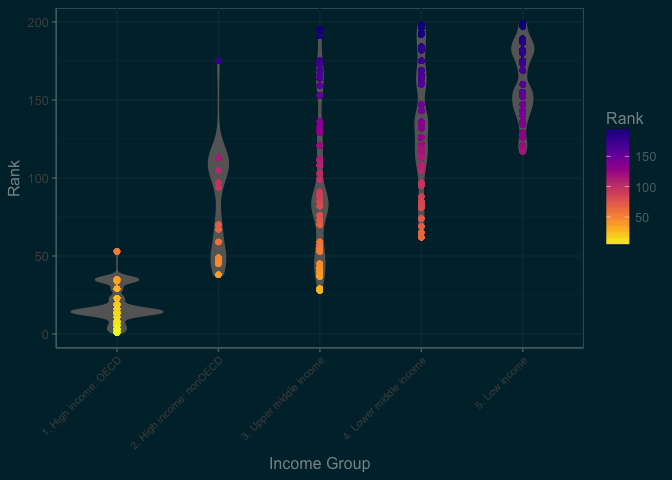
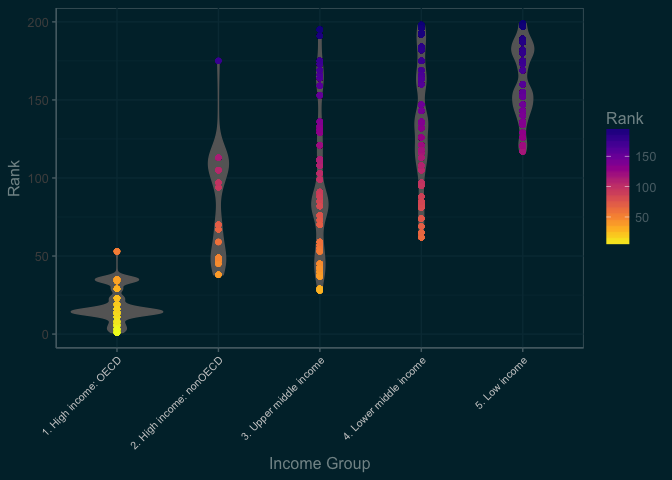
Correct bug in installation of `rnaturalearthdata` and make axis labels more clear

diff --git a/README.md b/README.md
@@ -38,7 +38,7 @@ NPI
 ```
 
     ##  [1] ""                                                                                                                                                                                                                                                                                                                                                                                                                                                                                                                                                                                                                                                                                                                                                                                                                                                                                                                                                                                                                                                                                                                                                                                                                                                                                                                                                                                                                                                                                                                                                                                                                                                                                                                                                                                                                                                                                                                                                                                                                                                                                                                                                                                                                                                                                                                                                          
-    ##  [2] "ABOUT THIS INDEX\nNomad Capitalist was founded by perpetual traveler, entrepreneur, and investor\nAndrew Henderson in 2012 to share his “notes from the field” about living, doing\nbusiness, and investing overseas. Since then, www.nomadcapitalist.com has\nbecome the most-visited website on the topic of international diversification,\nattracting more than three million unique visitors per year.\nNomad Capitalist assists six- and seven-figure entrepreneurs to legally reduce their\nbusiness and income taxes by relocating overseas, obtain residence permits and\ncitizenships in other countries for diversification, and invest in fast-growing\ninternational markets to grow their wealth faster.\nThe Nomad Passport Index was designed to educate global citizens about the true\nvalue of the world’s citizenships. While most indexes compare only a passport\nholder’s ability to travel freely, we realized that citizens of different countries deal\nwith far different requirements to pay tax, live freely, and avoid scrutiny when\ntraveling. This index is designed to show the true value of citizenship in each\ncountry from the perspective of a high-achieving citizen who wants the freedom to\nminimize his or her tax obligations, diversify his or her wealth, and travel freely\nwithout judgment.\nMETHODOLOGY\nThe Nomad Passport Index ranks the value of citizenship in and, by extension the\npassport of, 199 countries and territories in the world based on five factors:\n• Visa-free travel - 50% of ranking\n• Taxation - 20% of ranking\n• Perception - 10% of ranking\n• Dual citizenship - 10% of ranking\n• Overall freedom - 10% of ranking\nEach country’s value in each category is given the indicated weighting to achieve a\ncountry’s total score using the formula ((Visa Free Travel x 0.5) + (Taxation x 0.2)\n+ (Perception x 0.1) + (Dual Citizenship x 0.1) + (Overall Freedom x 0.1)).\n                             1 | www.nomadcapitalist.com\n"                                                                                                                                                                                                                                                                                                                               
+    ##  [2] "ABOUT THIS INDEX\nNomad Capitalist was founded by perpetual traveler, entrepreneur, and investor\nAndrew Henderson in 2012 to share his “notes from the field” about living, doing\nbusiness, and investing overseas. Since then, www.nomadcapitalist.com has\nbecome the most-visited website on the topic of international diversification,\nattracting more than three million unique visitors per year.\nNomad Capitalist assists six- and seven-figure entrepreneurs to legally reduce their\nbusiness and income taxes by relocating overseas, obtain residence permits and\ncitizenships in other countries for diversification, and invest in fast-growing\ninternational markets to grow their wealth faster.\nThe Nomad Passport Index was designed to educate global citizens about the true\nvalue of the world’s citizenships. While most indexes compare only a passport\nholder’s ability to travel freely, we realized that citizens of different countries deal\nwith far different requirements to pay tax, live freely, and avoid scrutiny when\ntraveling. This index is designed to show the true value of citizenship in each\ncountry from the perspective of a high-achieving citizen who wants the freedom to\nminimize his or her tax obligations, diversify his or her wealth, and travel freely\nwithout judgment.\nMETHODOLOGY\nThe Nomad Passport Index ranks the value of citizenship in and, by extension the\npassport of, 199 countries and territories in the world based on five factors:\n• Visa-free travel - 50% of ranking\n• Taxation - 30% of ranking\n• Perception - 10% of ranking\n• Dual citizenship - 10% of ranking\n• Overall freedom - 10% of ranking\nEach country’s value in each category is given the indicated weighting to achieve a\ncountry’s total score using the formula ((Visa Free Travel x 0.5) + (Taxation x 0.3)\n+ (Perception x 0.1) + (Dual Citizenship x 0.1) + (Overall Freedom x 0.1)).\n                             1 | www.nomadcapitalist.com\n"                                                                                                                                                                                                                                                                                                                               
     ##  [3] "The Index is the result of aggregating data from more than one dozen sources\nbased on priorities Nomad Capitalist believes to be important to citizens of a\ncountry and to individuals considering citizenship in a given country. For more\ninformation, watch this video.\nVISA-FREE TRAVEL\nThe most important factor in the value of a passport is the travel opportunities it\naffords. The Nomad Passport Index places the highest priority on visa-free travel,\nwhich is responsible for 50% of each country’s total ranking. This index relied on\ndata from the IATA, the Henley Visa Restrictions Index, and news sources to\ndetermine each country’s score, which is the number of countries that allow visa-\nfree access or a straightforward e-visa or visa on arrival process to holders of each\ncountry’s passport. For example, Germany scores highest with 177 countries.\nTAXATION\nThe second most important factor in the value of a passport is tax freedom, which\nis responsible for 30% of each country’s total ranking. We believe that no one\nshould be forced to pay tax by virtue of their citizenship alone. This index relied on\ndata from our personal experience with clients, our network of tax advisors around\nthe world, and each country’s tax agency or embassy, to determine how non-\nresident citizens are taxed. Each country was assigned a score from 10 to 50; for\nexample, the United States and Eritrea scored lowest with 10, while Monaco and\nothers scored highest with 50:\n• 10 = citizens are taxed on their worldwide income no matter where they lived\n• 20 = citizens may avoid taxation by moving overseas, but with difficulty\n• 30 = citizens may avoid taxation by moving overseas, without much difficulty\n• 40 = citizens are not taxed on foreign source income no matter where they live\n• 50 = citizens are not taxed on any income no matter where they live\nPERCEPTION\nThe world’s perception of a country and its citizens are responsible for 10% of\neach country’s total ranking. Each country’s passport is as valuable as it is able to\nbe used freely and keep its holders safe. This index relied on the World Happiness\nReport, the Human Development Index, and subjective factors based on our\n                            2 | www.nomadcapitalist.com\n"
     ##  [4] "personal experience with clients to determine how each country and its citizens are\nreceived. Each country was assigned a score from 10 to 50. A ranking if 10 was\ngiven to countries whose citizens are refused entry to a substantial number of\ncountries and/or whose citizens encounter substantial hostility. A ranking of 50 was\ngiven to countries ranked among the happiest in the world and whose citizens\nexperience minimal hostility. Rankings of 20, 30, and 40 were given as\nintermediate rankings.\nDUAL CITIZENSHIP\nThe ability to maintain other citizenships alongside that of the ranked country is\nresponsible for 10% of each country’s total ranking. We believe that everyone\nshould be free to hold dual or multiple citizenships without restriction. This index\nrelied on data from each country’s embassy when available, various internet\nsources when not available, and our personal experiences with our global network,\nto determine how free citizens of each country are to hold other nationalities. Each\ncountry was assigned a score from 10 to 50:\n• 10 = citizens are strictly forbidden to hold other citizenships\n• 20 = citizens are forbidden to hold other citizenships, but this is often unenforced\n• 30 = citizens may hold only one other citizenship and/or other restrictions\n• 40 = citizens are often allowed to hold other citizenships\n• 50 = citizens are almost always allowed to hold other citizenships\nFREEDOM\nThe ability of citizens to live freely is responsible for 10% of each country’s total\nranking. We believe that freedom of speech and of the press is a good thing, and\nimposing laws on non-resident citizens is generally a bad idea. This index relied on\ndata regarding mandatory military service, government spying programs,\nincarceration rate, and laws targeting non-resident citizens (such as the United\nStates’ Foreign Corrupt Practices Act), as well as the World Press Freedom Index\nand Economic Freedom Index to determine how free citizens of each country are,\nparticularly non-resident citizens. Each country was assigned a score from 10 to 50\nbased on our proprietary blend of these factors, with 10 being the least free and 50\nbeing the most free.\n                              3 | www.nomadcapitalist.com\n"     
     ##  [5] "Rank  Country     VFT   T  P DC   F Total\n1     Sweden       176 30 50  50 50   109\n2     Belgium      174 30 50  50 50   108\n3(T)  Italy        175 30 40  50 50 107.5\n3(T)  Spain        175 30 40  50 50 107.5\n5     Ireland      172 30 50  50 50   107\n6(T)  Finland      175 20 50  50 50 106.5\n6(T)  Germany      177 30 40  40 40 106.5\n8(T)  Denmark      174 30 50  40 40   106\n8(T)  Switzerland  172 30 50  50 40   106\n8(T)  Luxembourg   172 30 40  50 50   106\n11(T) France       175 30 40  50 30 105.5\n11(T) New Zealand  171 30 50  50 40 105.5\n13    Portugal     172 30 30  50 50   105\n14(T) Canada       172 20 50  50 40   104\n14(T) Netherlands  174 30 50  10 50   104\n"                                                                                                                                                                                                                                                                                                                                                                                                                                                                                                                                                                                                                                                                                                                                                                                                                                                                                                                                                                                                                                                                                                                                                                                                                                                                                                                                                                                                                                                                                                                                                                                                                                          
@@ -467,9 +467,9 @@ Using the `extract()` function from `tidyr` we will separate column 3 into the p
 library(tidyr)
 NPI_table10 <-
   tidyr::extract(NPI_table10,
-  X3,
-  into = c("X1", "X2", "X3", "X4", "X5", "X6"),
-  regex = "([[:alnum:]]+[[:space:]])([[:alnum:]]+[[:space:]])([[:alnum:]]+[[:space:]])([[:alnum:]]+[[:space:]])([[:alnum:]]+[[:space:]])([[:print:]]+)")
+                 X3,
+                 into = c("X1", "X2", "X3", "X4", "X5", "X6"),
+                 regex = "([[:alnum:]]+[[:space:]])([[:alnum:]]+[[:space:]])([[:alnum:]]+[[:space:]])([[:alnum:]]+[[:space:]])([[:alnum:]]+[[:space:]])([[:print:]]+)")
 
 # name columns to match other tables
 names(NPI_table10) <- names(NPI_table1)
@@ -537,7 +537,17 @@ Now the data are completely ingested and cleaned up and we can start visualising
 Using the ROpenSci package `rnaturalearth` we can map these data.
 
 ``` r
-# devtools::install_packages("ropensci/rnaturalearth")
+devtools::install_github("ropenscilabs/rnaturalearth")
+```
+
+    ## Downloading GitHub repo ropenscilabs/rnaturalearth@master
+    ## from URL https://api.github.com/repos/ropenscilabs/rnaturalearth/zipball/master
+
+    ## Installing rnaturalearth
+
+    ## '/usr/local/Cellar/r/3.3.3/R.framework/Resources/bin/R' CMD INSTALL '/private/var/folders/rd/q9rk3h4j77gd7qg9dw8_mj9m0000gn/T/RtmpwzboU1/devtoolsa95c70304a27/ropenscilabs-rnaturalearth-16abe11'
+
+``` r
 library(rnaturalearth)
 ```
 
@@ -712,8 +722,8 @@ ggplot(global_df, aes(long, lat)) +
   scale_fill_viridis(option = "plasma", direction = -1) +
   theme_solarized(light = FALSE) +
   theme(axis.title = element_blank(),
-      axis.text = element_blank(),
-      axis.ticks = element_blank()) +
+        axis.text = element_blank(),
+        axis.ticks = element_blank()) +
   ggtitle("Nomad Passport Index Rankings",
           subtitle = "2017") +
   coord_map(projection = "mollweide")
@@ -736,7 +746,8 @@ ggplot(Africa_df, aes(x = as.factor(id), y = Rank)) +
   theme_solarized(light = FALSE) +
   theme(axis.text.x = element_text(size = 7,
                                    angle = 45,
-                                   hjust = 1)) +
+                                   hjust = 1,
+                                   colour = "#cccccc")) +
   scale_y_continuous(limits = c(1, 200)) +
   xlab("Country") +
   ggtitle("Nomad Passport Index Rankings for African Countries",
@@ -756,8 +767,9 @@ global_df <- global_df[global_df$continent != "Seven seas (open ocean)", ]
 ggplot(global_df, aes(x = as.factor(continent), y = Rank)) +
   geom_violin(colour = "#F1F650", fill = "#F1F650") +
   scale_fill_viridis(option = "plasma", direction = -1, discrete = TRUE) +
-   theme_solarized(light = FALSE) +
-    xlab("Continent")
+  theme_solarized(light = FALSE) +
+  theme(axis.text = element_text(colour = "#cccccc")) +
+  xlab("Continent")
 ```
 
 ![](README_files/figure-markdown_github/violin_plots-1.png)
@@ -773,50 +785,64 @@ ggplot(global_df, aes(x = income_grp, y = Rank)) +
   xlab("Income Group") +
   theme(axis.text.x = element_text(size = 8,
                                    angle = 45,
-                                   hjust = 1))
+                                   hjust = 1,
+                                   colour = "#cccccc"))
 ```
 
 ![](README_files/figure-markdown_github/economic_rank-1.png)
 
-Wrap up
--------
-
-There are plenty of other ways to look at the data. The Natural Earth Data include GDP, economy and subregions and the Nomad Passport Index has several factors that go into the ranking that can be included as well. I hope that you've found this useful as an example of how to extract data and join it with geographic data and visualise it.
-
-Thanks to the package maintainers for the fantastic packages that made this sort of work possible with R.
-
-References
-==========
-
-Jeffrey B. Arnold (2017). ggthemes: Extra Themes, Scales and Geoms for 'ggplot2'. R package version 3.4.0. <https://CRAN.R-project.org/package=ggthemes> Simon Garnier (2016). viridis: Default Color Maps from 'matplotlib'. R package version 0.3.4. <https://CRAN.R-project.org/package=viridis> Jeroen Ooms (2016). pdftools: Text Extraction and Rendering of PDF Documents. R package version 1.0. <https://CRAN.R-project.org/package=pdftools> H. Wickham. ggplot2: Elegant Graphics for Data Analysis. Springer-Verlag New York, 2009. Hadley Wickham (2011). The Split-Apply-Combine Strategy for Data Analysis. Journal of Statistical Software, 40(1), 1-29. URL <http://www.jstatsoft.org/v40/i01/>. Hadley Wickham and Romain Francois (2016). dplyr: A Grammar of Data Manipulation. R package version 0.5.0. <https://CRAN.R-project.org/package=dplyr> Hadley Wickham, Jim Hester and Romain Francois (2016). readr: Read Tabular Data. R package version 1.0.0. <https://CRAN.R-project.org/package=readr>
-
-R System Information
-====================
-
-    ## R version 3.3.3 (2017-03-06)
-    ## Platform: x86_64-apple-darwin15.6.0 (64-bit)
-    ## Running under: OS X El Capitan 10.11.6
-    ## 
-    ## locale:
-    ## [1] en_AU.UTF-8/en_AU.UTF-8/en_AU.UTF-8/C/en_AU.UTF-8/en_AU.UTF-8
-    ## 
-    ## attached base packages:
-    ## [1] stats     graphics  grDevices utils     datasets  methods   base     
-    ## 
-    ## other attached packages:
-    ## [1] ggthemes_3.4.0      viridis_0.3.4       dplyr_0.5.0        
-    ## [4] ggplot2_2.2.1       rnaturalearth_0.1.0 tidyr_0.6.1        
-    ## [7] plyr_1.8.4          readr_1.0.0         pdftools_1.0       
-    ## 
-    ## loaded via a namespace (and not attached):
-    ##  [1] Rcpp_0.12.9        knitr_1.15.1       magrittr_1.5      
-    ##  [4] maps_3.1.1         maptools_0.9-1     munsell_0.4.3     
-    ##  [7] colorspace_1.3-2   lattice_0.20-34    R6_2.2.0          
-    ## [10] stringr_1.2.0      tools_3.3.3        rgdal_1.2-5       
-    ## [13] grid_3.3.3         gtable_0.2.0       DBI_0.6           
-    ## [16] rgeos_0.3-22       htmltools_0.3.5    lazyeval_0.2.0    
-    ## [19] yaml_2.1.14        assertthat_0.1     rprojroot_1.2     
-    ## [22] digest_0.6.12      tibble_1.2         gridExtra_2.2.1   
-    ## [25] mapproj_1.2-4      evaluate_0.10      rmarkdown_1.3.9004
-    ## [28] labeling_0.3       sp_1.2-4           stringi_1.1.2     
-    ## [31] scales_0.4.1       backports_1.0.5    foreign_0.8-67
+        ## Wrap up
+        
+        There are plenty of other ways to look at the data. The Natural Earth Data include GDP, economy and subregions and the Nomad Passport Index has several factors that go into the ranking that can be included as well. I hope that you've found this useful as an example of how to extract data and join it with geographic data and visualise it.
+        
+        Thanks to the package maintainers for the fantastic packages that made this sort of work possible with R.
+        
+        # References
+        Jeffrey B. Arnold (2017). ggthemes: Extra Themes, Scales and Geoms for 'ggplot2'. R package version 3.4.0.
+        https://CRAN.R-project.org/package=ggthemes
+        Simon Garnier (2016). viridis: Default Color Maps from 'matplotlib'. R package version 0.3.4.
+        https://CRAN.R-project.org/package=viridis
+        Jeroen Ooms (2016). pdftools: Text Extraction and Rendering of PDF Documents. R package version 1.0.
+        https://CRAN.R-project.org/package=pdftools
+        H. Wickham. ggplot2: Elegant Graphics for Data Analysis. Springer-Verlag New York, 2009.
+        Hadley Wickham (2011). The Split-Apply-Combine Strategy for Data Analysis. Journal of Statistical Software, 40(1), 1-29.     URL http://www.jstatsoft.org/v40/i01/.
+        Hadley Wickham and Romain Francois (2016). dplyr: A Grammar of Data Manipulation. R package version 0.5.0.
+        https://CRAN.R-project.org/package=dplyr
+        Hadley Wickham, Jim Hester and Romain Francois (2016). readr: Read Tabular Data. R package version 1.0.0.
+        https://CRAN.R-project.org/package=readr
+        
+        # R System Information
+        
+        
+        ```
+        ## R version 3.3.3 (2017-03-06)
+        ## Platform: x86_64-apple-darwin16.4.0 (64-bit)
+        ## Running under: macOS Sierra 10.12.3
+        ## 
+        ## locale:
+        ## [1] en_AU.UTF-8/en_AU.UTF-8/en_AU.UTF-8/C/en_AU.UTF-8/en_AU.UTF-8
+        ## 
+        ## attached base packages:
+        ## [1] stats     graphics  grDevices utils     datasets  methods   base     
+        ## 
+        ## other attached packages:
+        ## [1] ggthemes_3.4.0      viridis_0.3.4       dplyr_0.5.0        
+        ## [4] ggplot2_2.2.1       rnaturalearth_0.1.0 tidyr_0.6.1        
+        ## [7] plyr_1.8.4          readr_1.0.0         pdftools_1.0       
+        ## 
+        ## loaded via a namespace (and not attached):
+        ##  [1] Rcpp_0.12.9          git2r_0.18.0         tools_3.3.3         
+        ##  [4] digest_0.6.12        pkgbuild_0.0.0.9000  pkgload_0.0.0.9000  
+        ##  [7] evaluate_0.10        memoise_1.0.0        tibble_1.2          
+        ## [10] gtable_0.2.0         lattice_0.20-34      DBI_0.6             
+        ## [13] mapproj_1.2-4        curl_2.3             yaml_2.1.14         
+        ## [16] rgdal_1.2-5          gridExtra_2.2.1      withr_1.0.2         
+        ## [19] httr_1.2.1.9000      stringr_1.2.0        knitr_1.15.1        
+        ## [22] maps_3.1.1           rgeos_0.3-22         devtools_1.12.0.9000
+        ## [25] rprojroot_1.2        grid_3.3.3           R6_2.2.0            
+        ## [28] foreign_0.8-67       rmarkdown_1.3.9004   sp_1.2-4            
+        ## [31] callr_1.0.0.9000     magrittr_1.5         backports_1.0.5     
+        ## [34] scales_0.4.1         htmltools_0.3.5      maptools_0.9-1      
+        ## [37] assertthat_0.1       colorspace_1.3-2     labeling_0.3        
+        ## [40] stringi_1.1.2        lazyeval_0.2.0       munsell_0.4.3
+        ```
